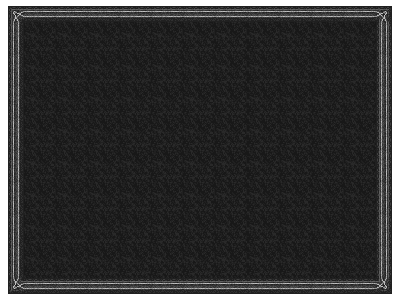
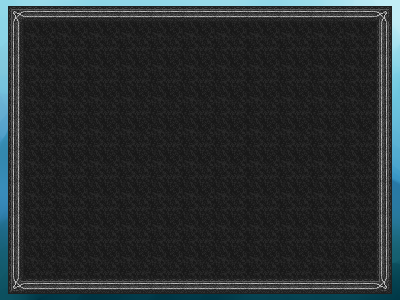
Improve menu background, add to pause and options menus

Changed region(s): [[0.0, 0.0, 1.0, 1.0]]

diff --git a/mnu/PauseMenu.py b/mnu/PauseMenu.py
@@ -8,4 +8,4 @@ class PauseMenu(Menu):
         resume_button = Button.Button((Game.SCREEN_WIDTH / 2 - Button.WIDTH / 2, Game.SCREEN_HEIGHT * 1 // 3), "Resume", "resume")
         options_button = Button.Button((Game.SCREEN_WIDTH / 2 - Button.WIDTH / 2, Game.SCREEN_HEIGHT * 1 // 2), "Options", "options")
         quit_button = Button.Button((Game.SCREEN_WIDTH / 2 - Button.WIDTH / 2, Game.SCREEN_HEIGHT * 2 // 3), "Quit", "quit")
-        super(PauseMenu, self).__init__([resume_button, options_button, quit_button], [paused_label])
+        super(PauseMenu, self).__init__([resume_button, options_button, quit_button], [paused_label], True)

diff --git a/mnu/OptionsMenu.py b/mnu/OptionsMenu.py
@@ -10,4 +10,4 @@ class OptionsMenu(Menu):
         self.music_button = Button.Button((Game.SCREEN_WIDTH / 2 - Button.WIDTH / 2, Game.SCREEN_HEIGHT * 1 // 2), music_message, "music")
         back_button = Button.Button((Game.SCREEN_WIDTH / 2 - Button.WIDTH / 2, Game.SCREEN_HEIGHT * 4 // 5), "Back", "menu")
         back_button.next_menu = prev_menu
-        super(OptionsMenu, self).__init__([self.music_button, back_button], [options_label])
+        super(OptionsMenu, self).__init__([self.music_button, back_button], [options_label], True)
